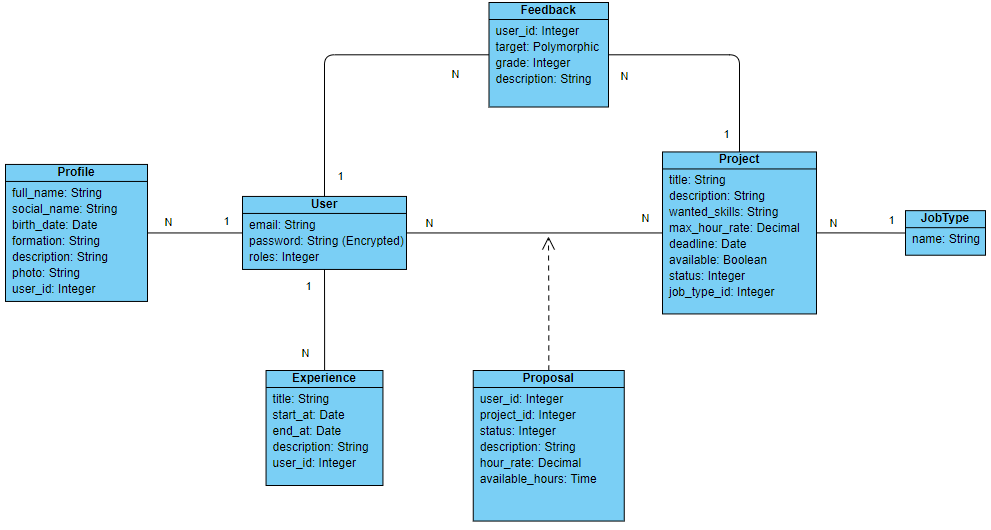
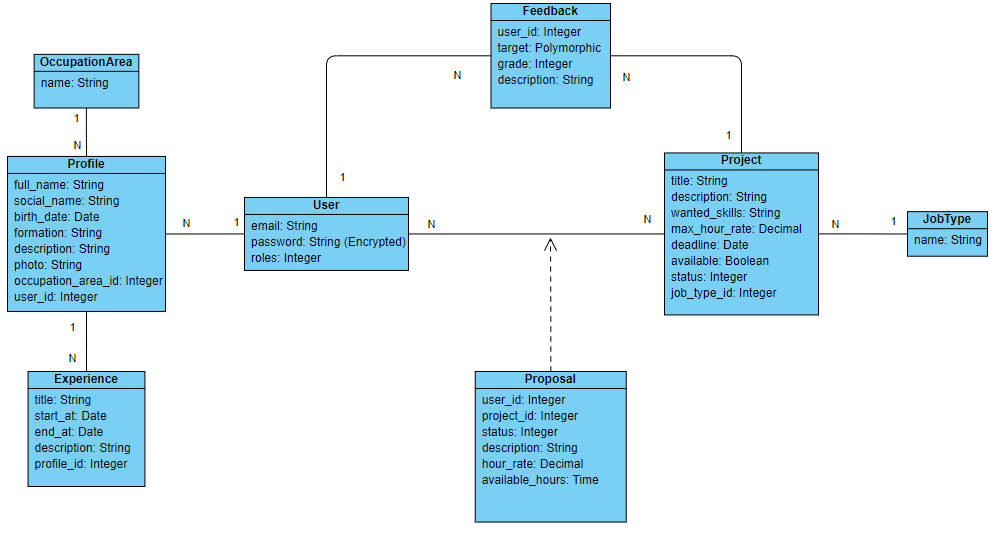
Initialized models for: Profile, Experience and OccupationArea - Updated Class Diagram - Fix JobType model validations - Added Bootstrap (Just to not look extremely horrible)

diff --git a/app/assets/stylesheets/application.css b/app/assets/stylesheets/application.css
@@ -11,5 +11,6 @@
  * It is generally better to create a new file per style scope.
  *
  *= require_tree .
+ *= require bootstrap/dist/css/bootstrap.css
  *= require_self
  */

diff --git a/db/schema.rb b/db/schema.rb
@@ -10,7 +10,18 @@
 #
 # It's strongly recommended that you check this file into your version control system.
 
-ActiveRecord::Schema.define(version: 2021_10_16_140206) do
+ActiveRecord::Schema.define(version: 2021_10_17_040417) do
+
+  create_table "experiences", force: :cascade do |t|
+    t.string "title"
+    t.date "start_at"
+    t.date "end_at"
+    t.string "description"
+    t.integer "profile_id", null: false
+    t.datetime "created_at", precision: 6, null: false
+    t.datetime "updated_at", precision: 6, null: false
+    t.index ["profile_id"], name: "index_experiences_on_profile_id"
+  end
 
   create_table "freelancers", force: :cascade do |t|
     t.string "email", default: "", null: false
@@ -28,6 +39,27 @@ ActiveRecord::Schema.define(version: 2021_10_16_140206) do
     t.string "name"
     t.datetime "created_at", precision: 6, null: false
     t.datetime "updated_at", precision: 6, null: false
+  end
+
+  create_table "occupation_areas", force: :cascade do |t|
+    t.string "name"
+    t.datetime "created_at", precision: 6, null: false
+    t.datetime "updated_at", precision: 6, null: false
+  end
+
+  create_table "profiles", force: :cascade do |t|
+    t.string "full_name"
+    t.string "social_name"
+    t.date "birth_date"
+    t.string "formation"
+    t.string "description"
+    t.string "photo"
+    t.integer "occupation_area_id", null: false
+    t.integer "freelancer_id", null: false
+    t.datetime "created_at", precision: 6, null: false
+    t.datetime "updated_at", precision: 6, null: false
+    t.index ["freelancer_id"], name: "index_profiles_on_freelancer_id"
+    t.index ["occupation_area_id"], name: "index_profiles_on_occupation_area_id"
   end
 
   create_table "projects", force: :cascade do |t|
@@ -58,6 +90,9 @@ ActiveRecord::Schema.define(version: 2021_10_16_140206) do
     t.index ["reset_password_token"], name: "index_users_on_reset_password_token", unique: true
   end
 
+  add_foreign_key "experiences", "profiles"
+  add_foreign_key "profiles", "freelancers"
+  add_foreign_key "profiles", "occupation_areas"
   add_foreign_key "projects", "job_types"
   add_foreign_key "projects", "users"
 end

diff --git a/db/migrate/20211017033808_create_profiles.rb b/db/migrate/20211017033808_create_profiles.rb
@@ -1,0 +1,16 @@
+class CreateProfiles < ActiveRecord::Migration[6.1]
+  def change
+    create_table :profiles do |t|
+      t.string :full_name
+      t.string :social_name
+      t.date :birth_date
+      t.string :formation
+      t.string :description
+      t.string :photo
+      t.references :occupation_area, null: false, foreign_key: true
+      t.references :freelancer, null: false, foreign_key: true
+
+      t.timestamps
+    end
+  end
+end

diff --git a/db/migrate/20211017040417_create_experiences.rb b/db/migrate/20211017040417_create_experiences.rb
@@ -1,0 +1,13 @@
+class CreateExperiences < ActiveRecord::Migration[6.1]
+  def change
+    create_table :experiences do |t|
+      t.string :title
+      t.date :start_at
+      t.date :end_at
+      t.string :description
+      t.references :profile, null: false, foreign_key: true
+
+      t.timestamps
+    end
+  end
+end

diff --git a/app/models/job_type.rb b/app/models/job_type.rb
@@ -1,5 +1,7 @@
 class JobType < ApplicationRecord
   has_many :projects
 
-  validates :name, presence: :true
+  validates :name, presence: :true,
+            uniqueness: { case_sensitive: false },
+            length: { minimum: 3, maximum: 50 }  
 end

diff --git a/db/migrate/20211017032547_create_occupation_areas.rb b/db/migrate/20211017032547_create_occupation_areas.rb
@@ -1,0 +1,9 @@
+class CreateOccupationAreas < ActiveRecord::Migration[6.1]
+  def change
+    create_table :occupation_areas do |t|
+      t.string :name
+
+      t.timestamps
+    end
+  end
+end

diff --git a/spec/models/occupation_area_spec.rb b/spec/models/occupation_area_spec.rb
@@ -1,0 +1,5 @@
+require 'rails_helper'
+
+RSpec.describe OccupationArea, type: :model do
+  # pending "add some examples to (or delete) #{__FILE__}"
+end

diff --git a/spec/models/experience_spec.rb b/spec/models/experience_spec.rb
@@ -1,0 +1,5 @@
+require 'rails_helper'
+
+RSpec.describe Experience, type: :model do
+  # pending "add some examples to (or delete) #{__FILE__}"
+end

diff --git a/spec/models/profile_spec.rb b/spec/models/profile_spec.rb
@@ -1,0 +1,5 @@
+require 'rails_helper'
+
+RSpec.describe Profile, type: :model do
+  # pending "add some examples to (or delete) #{__FILE__}"
+end

diff --git a/app/models/profile.rb b/app/models/profile.rb
@@ -1,0 +1,4 @@
+class Profile < ApplicationRecord
+  belongs_to :occupation_area
+  belongs_to :freelancer
+end

diff --git a/app/models/experience.rb b/app/models/experience.rb
@@ -1,0 +1,3 @@
+class Experience < ApplicationRecord
+  belongs_to :profile
+end

diff --git a/app/models/occupation_area.rb b/app/models/occupation_area.rb
@@ -1,0 +1,2 @@
+class OccupationArea < ApplicationRecord
+end
